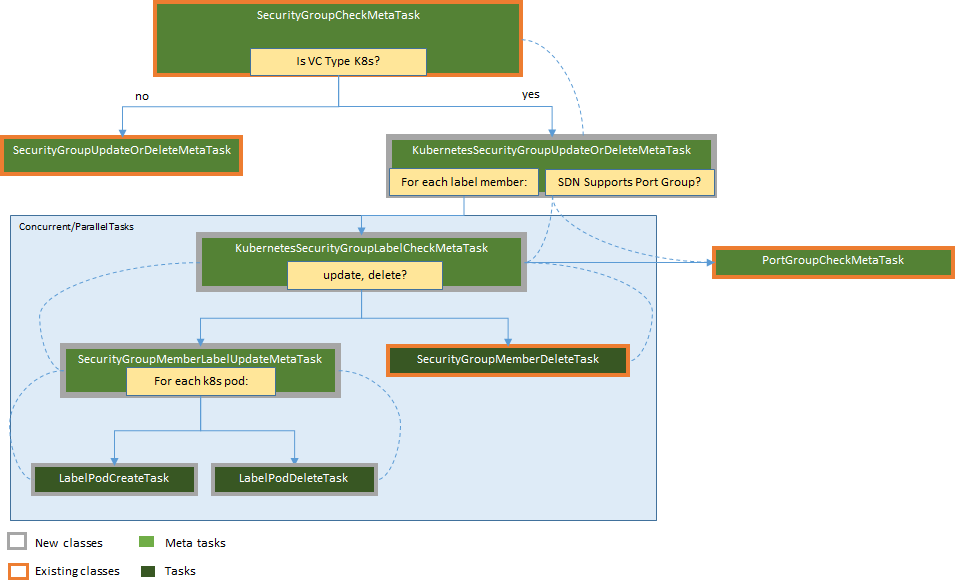
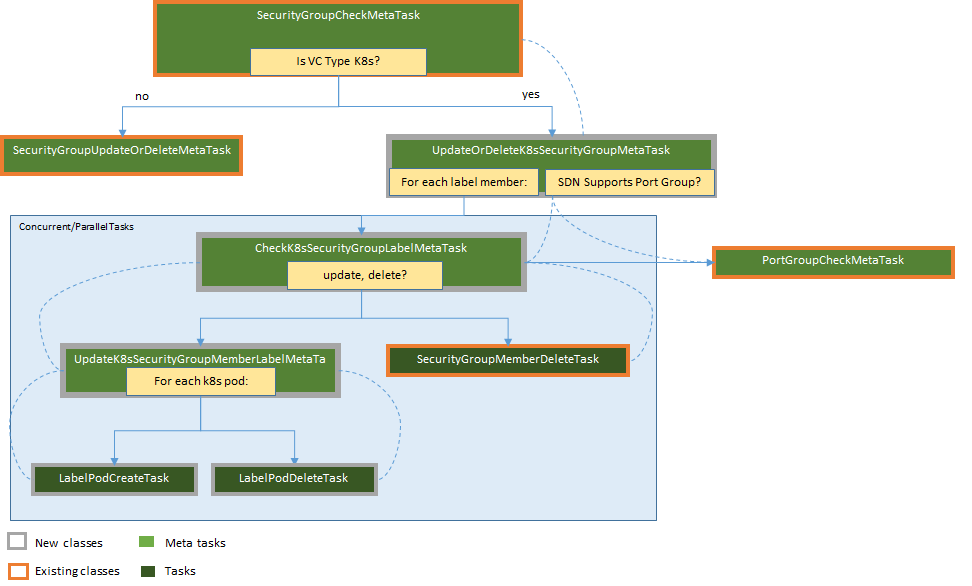
Adding design details to perform traffic redirection in a container environment (#85)

Changed region(s): [[0.0617, 0.5836, 0.3395, 0.6451], [0.4321, 0.2457, 0.7099, 0.2765], [0.2469, 0.3993, 0.4938, 0.43]]

diff --git a/designs/containers/traffic-redirection/traffic-redirection.md b/designs/containers/traffic-redirection/traffic-redirection.md
@@ -1,0 +1,67 @@
+# OSC Container Support - Traffic Redirection
+This document describes the design changes needed for OSC to support redirect traffic between containers in a Kubernetes(K8s) cluster through a deployed container VNF.  Learn more about the other related features [Container VNF Deployment](#container-vnf-deployment) and [Container Workload Discovery](#container-workload-discovery).
+
+## Assignees
+Emanoel Xavier - https://github.com/emanoelxavier
+
+## Background
+OSC currently supports protection of workloads hosted on VM based virtualized environments. This work expands OSC to also control security on container based environments orchestrated by [Kubernetes](#kubernetes-home). The adoption of container technologies is becoming more and more widespread due to its benefits such as easy maintainability, reusability, and minimal overhead with K8s being one of the most popular container orchestrators.  
+For the first release of the OSC containers support the focus will be mostly on the integration points between OSC, the virtualization environment (K8s) and the software defined network(SDN) controller services needed to discovering the workloads to be protected, deploying the security VNFs and performing traffic redirection through a demonstrable E2E flow.  
+
+## Constraints and Assumptions
+
+### Nuage SDN for Kubernetes
+The redirection implemented by this feature will utilize the Nuage SDN Plugin.  While additional changes in the plugin might be necessary to discover network information, other Nuage functionalities currently not supported by the plugin and not essential to this work will not be implemented as part of this (i.e.: service function chaining).  
+Also, because the plugin supports **port group** all the new synchronization flows implemented for this feature will be designed for this type of plugins only.  To facilitate interim tests the NSC plugin might be used with the configuration `supportsPortGroup: true`.  
+
+## Design Changes
+The implementation of this feature will require changes only on the OSC tasks and metatasks to synchronize information with the OSC database, SDN controller and security manager. 
+
+### REST API  
+No changes are expected to be done in the REST API, however it is worth noting which API will be used to create security group bindings for redirection:  `PUT /api/server/v1/virtualizationConnectors/{vcId}/securityGroups/{sgId}/bindings`.  This API will be called with a single bind and a time and it will also be used to trigger unbinding.  
+
+### OSC Services
+Not applicable.
+
+### OSC SDKs
+
+#### VNF Security Manager SDK
+Not applicable.
+
+#### SDN Controller SDK
+Not applicable.
+
+### OSC Entities  
+Not applicable.
+
+### OSC UI
+Out of scope.
+
+### OSC Synchronization Tasks
+Most of the changes needed for this feature will include expanding the already planned class `UpdateK8sSecurityGroupUpdateOrDeleteMetaTask` to include additional existing tasks and metatasks in its graph. See below the pictures comparing the graphs planned for synchronization of security group and members and now the graphs planned for syncrhonization of the binding/unbiding of a SG.  
+
+![](../workload-discovery/images/discovery-tasks.png)
+*Tasks and Metatasks for Synchronizing Security Group Members*  
+
+
+
+![](./images/redirection-tasks.png)
+*Tasks and Metatasks for Synchronizing Security Group Bindings/Interfaces*
+
+#### UpdateK8sSecurityGroupOrDeleteMetaTask  
+In addition to conform the security group members and pods, this meta task will also now trigger other existing tasks and metatasks to synchronize the port groups and port group hooks with the SDN controller using the tasks `PortGroupCheckMetaTask` and `CheckPortGroupHookMetaTask`; security group members with the manager using the `MgrSecurityGroupCheckMetaTask`; and deleting  the security group interfaces using the `DeleteSecurityGroupInterfaceTask` when applicable.  
+
+#### CheckPortGroupHookMetaTask  
+The main aspects of this meta tasks will remain as is, however some minor changes might be needed for Kubernetes virtualization connectors to properly discover the available DAI and respective domain id.  
+
+#### CreateMgrSecurityGroupTask
+This existing task is invoked by `MgrSecurityGroupCheckMetaTask` and it will need to include some minor updates  to also extract `PodPorts` from **label** security group members.  
+
+## Tests
+
+Describe here any new test requirement for this feature. This can include: virtualization platform, test infrastructure, stubs, etc. 
+> Note: Any feature should be demonstrable and testable independently of a particular vendor component or service. 
+
+## References
+### [Container VNF Deployment](https://github.com/opensecuritycontroller/community/blob/master/designs/containers/vnf-deployment/vnf-deployment.md)  
+### [Container Workload Discovery](https://github.com/opensecuritycontroller/community/blob/master/designs/containers/workload-discovery/workload-discovery.md)  

diff --git a/designs/containers/workload-discovery/workload-discovery.md b/designs/containers/workload-discovery/workload-discovery.md
@@ -343,10 +343,10 @@ The diagram below depicts the tasks and metatasks involved on this change:
 ![](./images/discovery-tasks.png)  
 *Tasks and Metatasks for Synchronizing Security Group Members*
 * **SecurityGroupCheckMetaTask**: This metatask will continue mostly as is, but for SGs of Virtualization Connectors of type Kubernetes it will add to the graph `KubernetesSecurityGroupUpdateOrDeleteMetaTask` instead of the existing `SecurityGroupUpdateOrDeleteMetatask`.  
-* **KubernetesSecurityGroupUpdateOrDeleteMetaTask:** The main purpose of this task is to trigger the task `KubernetesSecurityGroupLabelCheckMetTask` for each label security group member. Similarly to the existing `SecurityGroupUpdateOrDeleteMetatask` this task will also add the existing task `PortGroupCheckMetaTask` if the SDN controller supports port group.  
-* **KubernetesSecurityGroupLabelCheckMetaTask:** This metatask forks the graph in two possible options for a given label security member: update or deletion, adding to the graph either `SecurityGroupMemberLabelUpdateMetaTask` or 
+* **UpdateOrDeleteK8ssSecurityGroupMetaTask:** The main purpose of this task is to trigger the task `KubernetesSecurityGroupLabelCheckMetTask` for each label security group member. Similarly to the existing `SecurityGroupUpdateOrDeleteMetatask` this task will also add the existing task `PortGroupCheckMetaTask` if the SDN controller supports port group.  
+* **CheckK8sSecurityGroupLabelMetaTask:** This metatask forks the graph in two possible options for a given label security member: update or deletion, adding to the graph either `SecurityGroupMemberLabelUpdateMetaTask` or 
 * **SecurityGropuMemberDeleteTask**: This existing task is currently responsible for deleting security members, entities (VM, network, etc) and ports when applicable. It will remain mostly the same but also handling the member type `Label`.  
-* **SecurityGroupMemberLabelUpdateMetaTask:** The main purpose of this task is to list the K8s pods using the `KubernetesPodApi` and checking if a new pod needs to be created or an existing one must be deleted.  Observe that pod updates are not expected, any changes on the pod: name, namespace, node, network info should represent a new pod (K8s does not currently support pod migration). Once binding is developed this metatask will also include tasks to synchronize information with the SDN controller.  `
+* **UpdateK8sSecurityGroupMemberLabelMetaTask:** The main purpose of this task is to list the K8s pods using the `KubernetesPodApi` and checking if a new pod needs to be created or an existing one must be deleted.  Observe that pod updates are not expected, any changes on the pod: name, namespace, node, network info should represent a new pod (K8s does not currently support pod migration). Once binding is developed this metatask will also include tasks to synchronize information with the SDN controller.  `
 * **LabelPodCreateTask:** This task is responsible for retrieving additional network information from the SDN controller related to the targeted pod and it will persit the pod with that information (i.e. pod port) on the OSC database.  `
 * **LabelPodDeleteTask:** This task is responsible for purging pod and pod network information from the OSC db.  `
 
